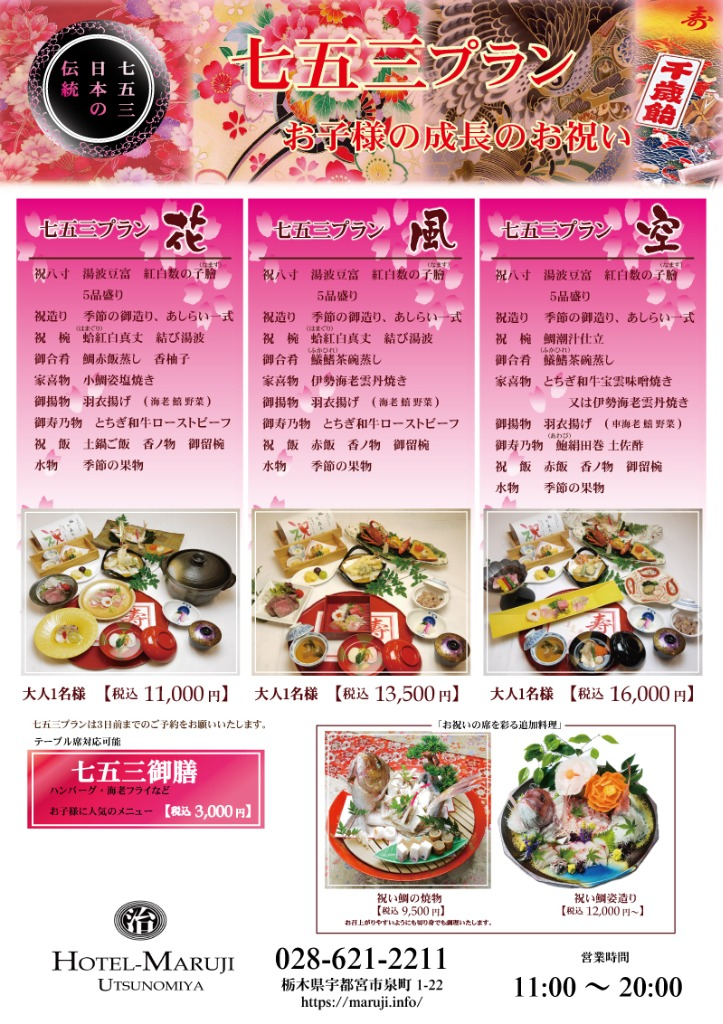
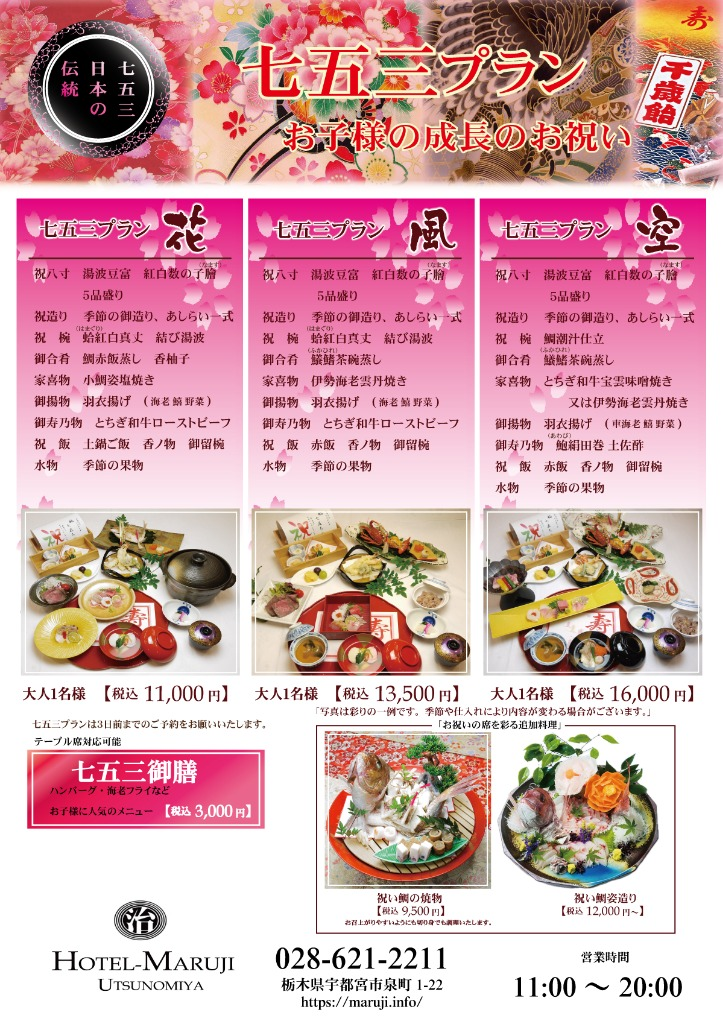
Update celebration page flyer image with revised version

diff --git a/celebration.html b/celebration.html
@@ -26,7 +26,7 @@
   <meta property="og:description" content="お子様の健やかな成長を祝う七五三プラン。板前が丹精込めて仕立てる祝会席「花・風・空」と七五三御膳、祝い鯛の焼物・姿造りをご用意しております。">
   <meta property="og:type" content="website">
   <meta property="og:url" content="https://maruji.info/celebration.html">
-  <meta property="og:image" content="https://maruji.info/images/celebration_shichigosan.jpg">
+  <meta property="og:image" content="https://maruji.info/images/celebration_shichigosan.jpg?v=2">
   <meta property="og:site_name" content="ホテル丸治">
   <meta name="twitter:card" content="summary_large_image">
   <link rel="icon" href="images/favicon.jpg?v=2">
@@ -258,8 +258,8 @@
 
         <!-- チラシ画像 -->
         <div class="celeb-flyer-wrapper">
-          <a href="images/celebration_shichigosan.jpg" data-fancybox="gallery" title="クリックして拡大">
-            <img src="images/celebration_shichigosan.jpg" alt="日本の伝統 七五三プラン お子様の成長のお祝い チラシ">
+          <a href="images/celebration_shichigosan.jpg?v=2" data-fancybox="gallery" title="クリックして拡大">
+            <img src="images/celebration_shichigosan.jpg?v=2" alt="日本の伝統 七五三プラン お子様の成長のお祝い チラシ">
           </a>
           <p style="margin-top: 12px; color: #666; font-size: 0.9rem;"><i class="fas fa-search-plus"></i> 画像をクリックすると大きく拡大表示できます。</p>
         </div>
@@ -271,7 +271,8 @@
             <h2>日本の伝統 七五三プラン 〜お子様の成長のお祝い〜</h2>
             <p>
               蛤や鯛、伊勢海老、鱶鰭（ふかひれ）、とちぎ和牛など、お祝いの席にふさわしい縁起の良い山海の幸をふんだんに盛り込んだ3つの祝会席コースをご用意いたしました。<br>
-              <strong>※七五三プランは3日前までのご予約をお願いいたします。（テーブル席対応可能）</strong>
+              <strong>※七五三プランは3日前までのご予約をお願いいたします。（テーブル席対応可能）</strong><br>
+              <small style="color: #666;">※写真は彩りの一例です。季節や仕入れにより内容が変わる場合がございます。</small>
             </p>
           </div>
 
